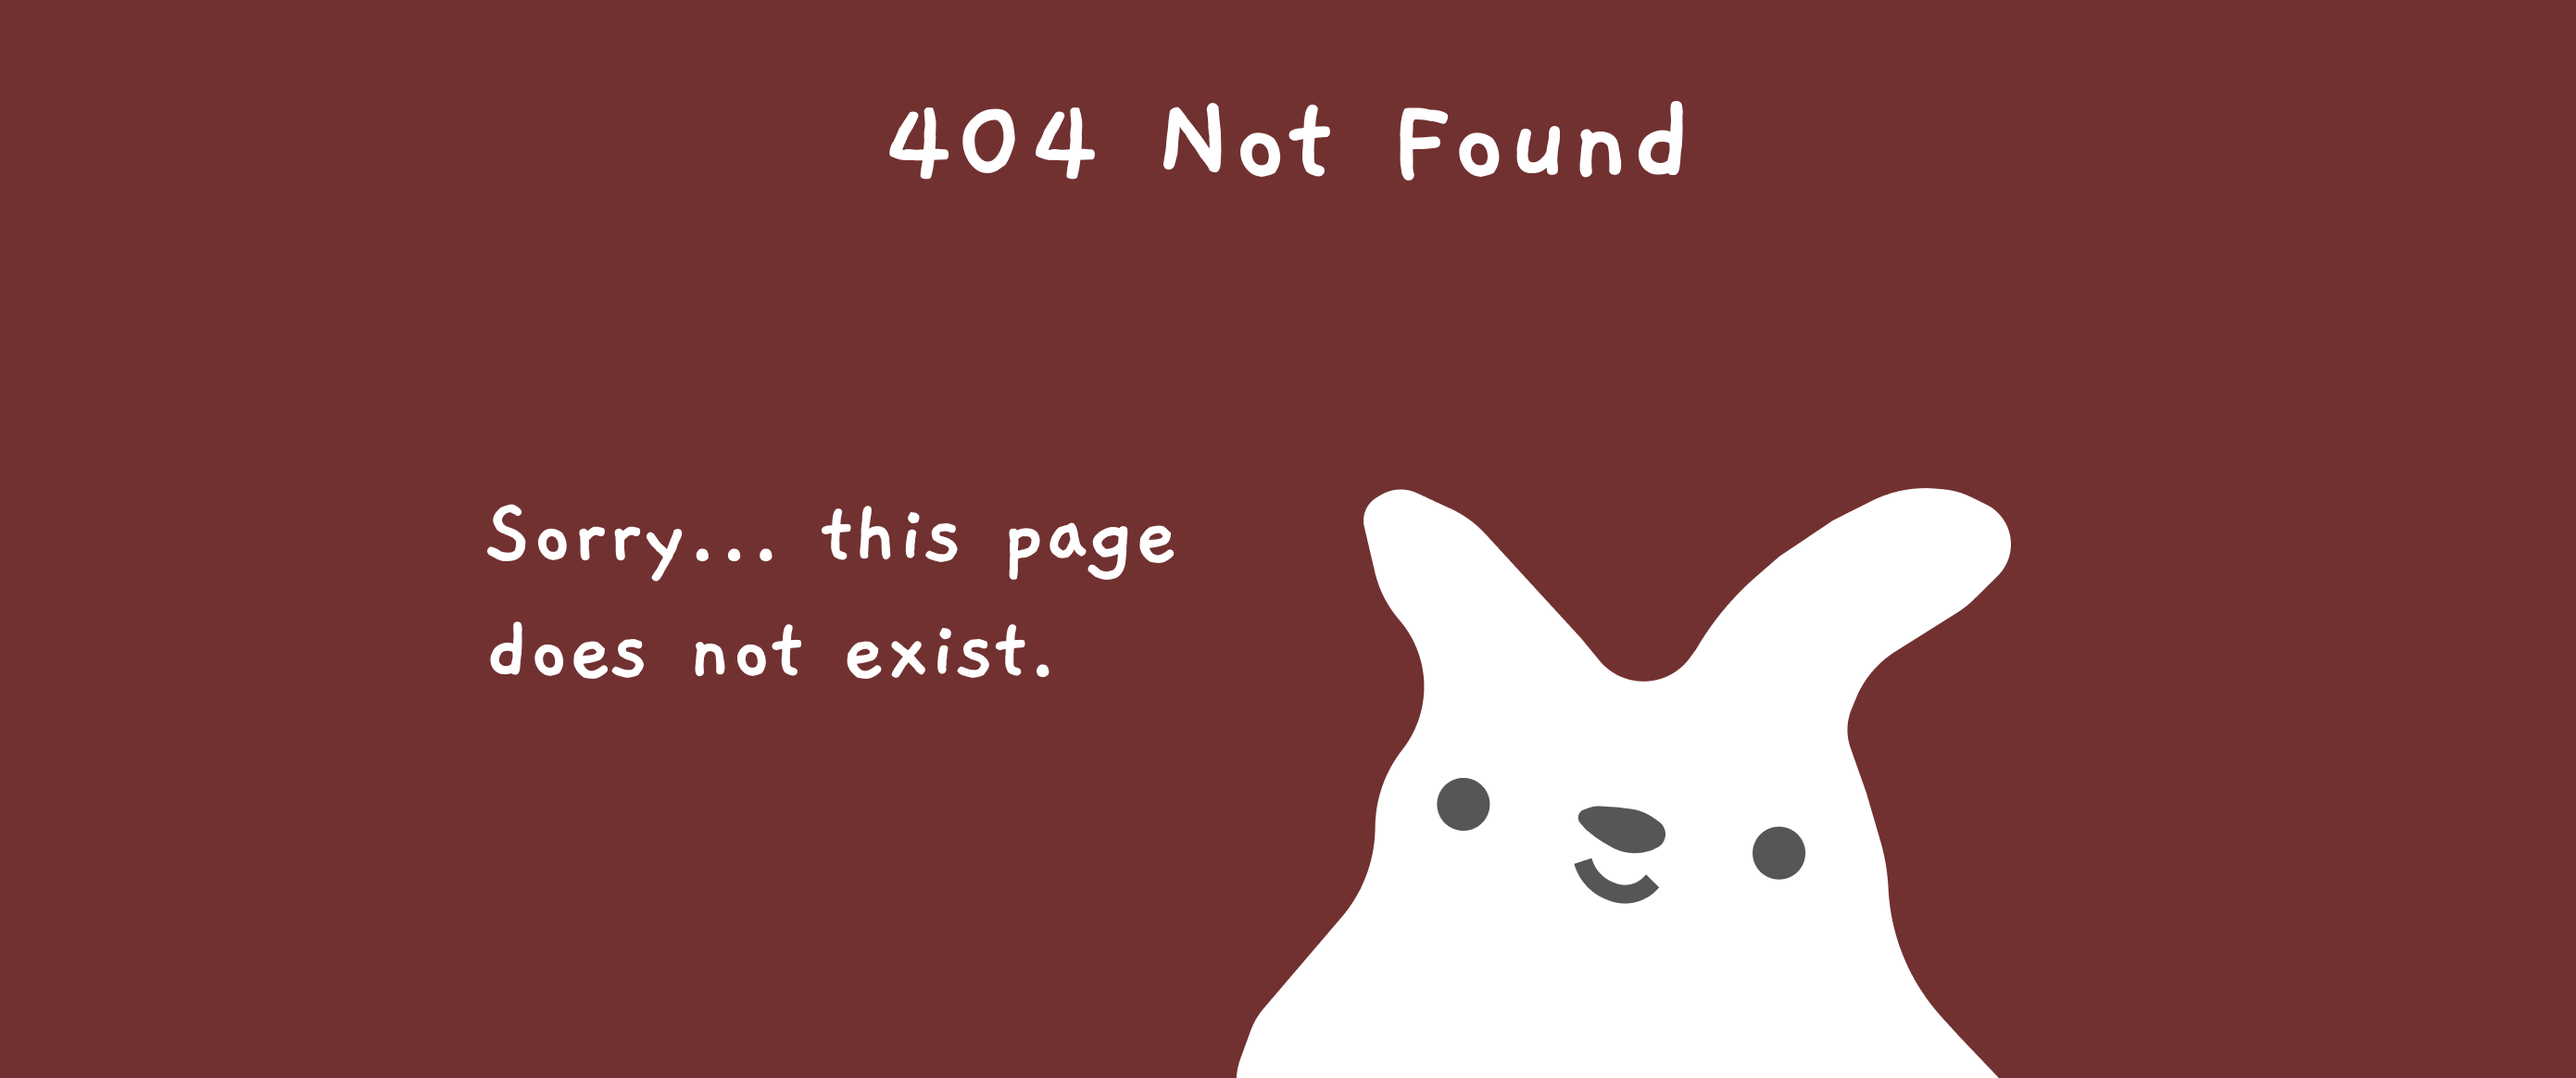
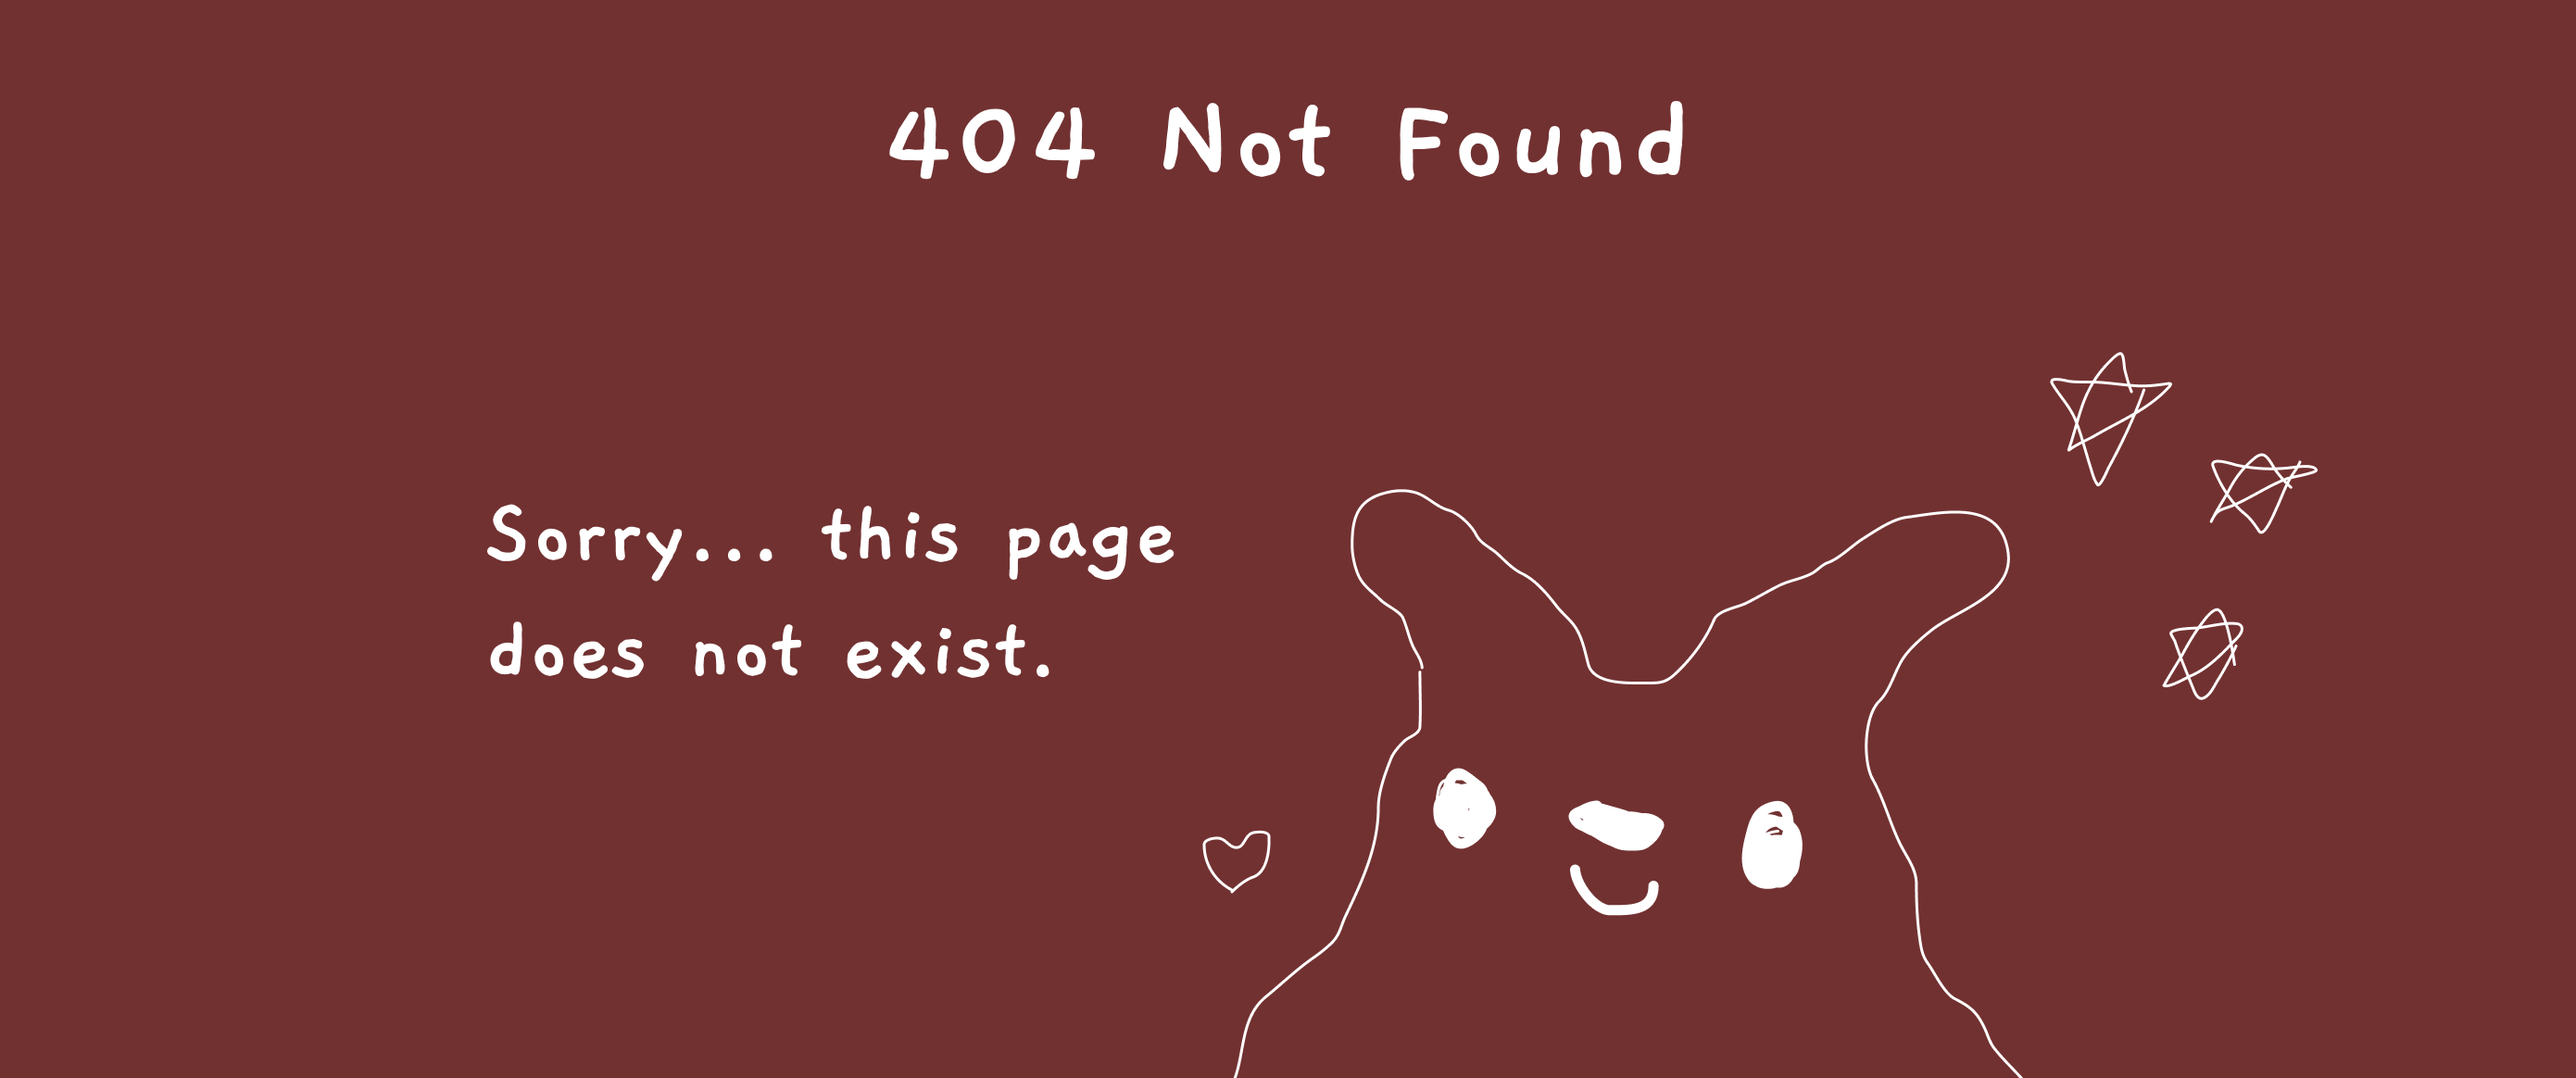
log 11/19/22

diff --git a/src/pages/TreasureTrove/TT.js b/src/pages/TreasureTrove/TT.js
@@ -3,7 +3,7 @@ import "./TT.css"
 function TT(){
     return(
         <div className="container fixed">
-            <h2>This is the treasure trove page :3</h2>
+            <h2>Our Products</h2>
         </div>
     );
 }

diff --git a/README.md b/README.md
@@ -77,3 +77,7 @@ public is the "display" of the site, it's what React uses to host what you've co
 - 11/13/2022 Designing skeleton for TT page (Figma)
 - 11/14/2022 Designing skeleton for TT page (Figma)
 - 11/15/2022 More designing + implement page animations using Animate.css
+- 11/16/2022 Adding skeletons to pages
+- 11/17/2022 File management + concept for rabbit overlays on contact page
+- 11/18/2022 Design for rabbit overlays
+- 11/19/2022 File management + editing skeletons + add 404 default + graphic for 404
